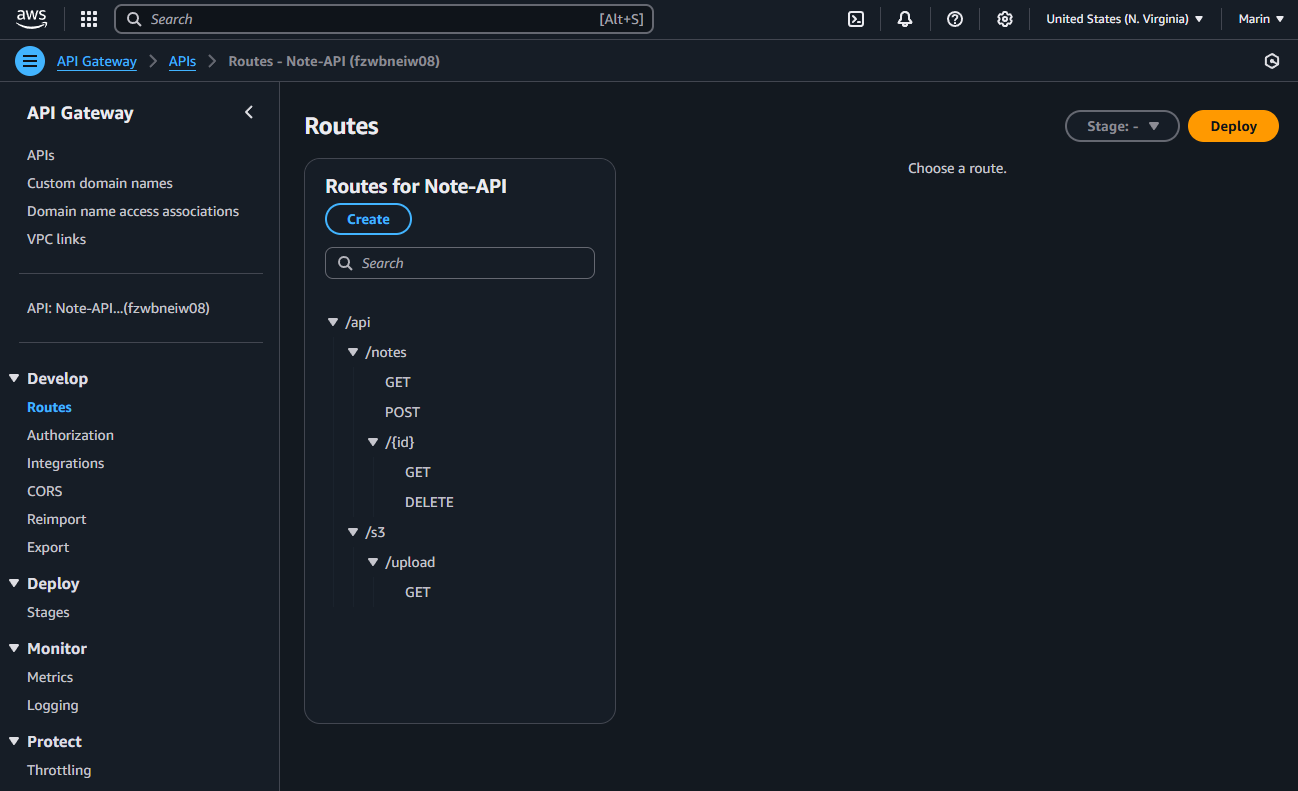
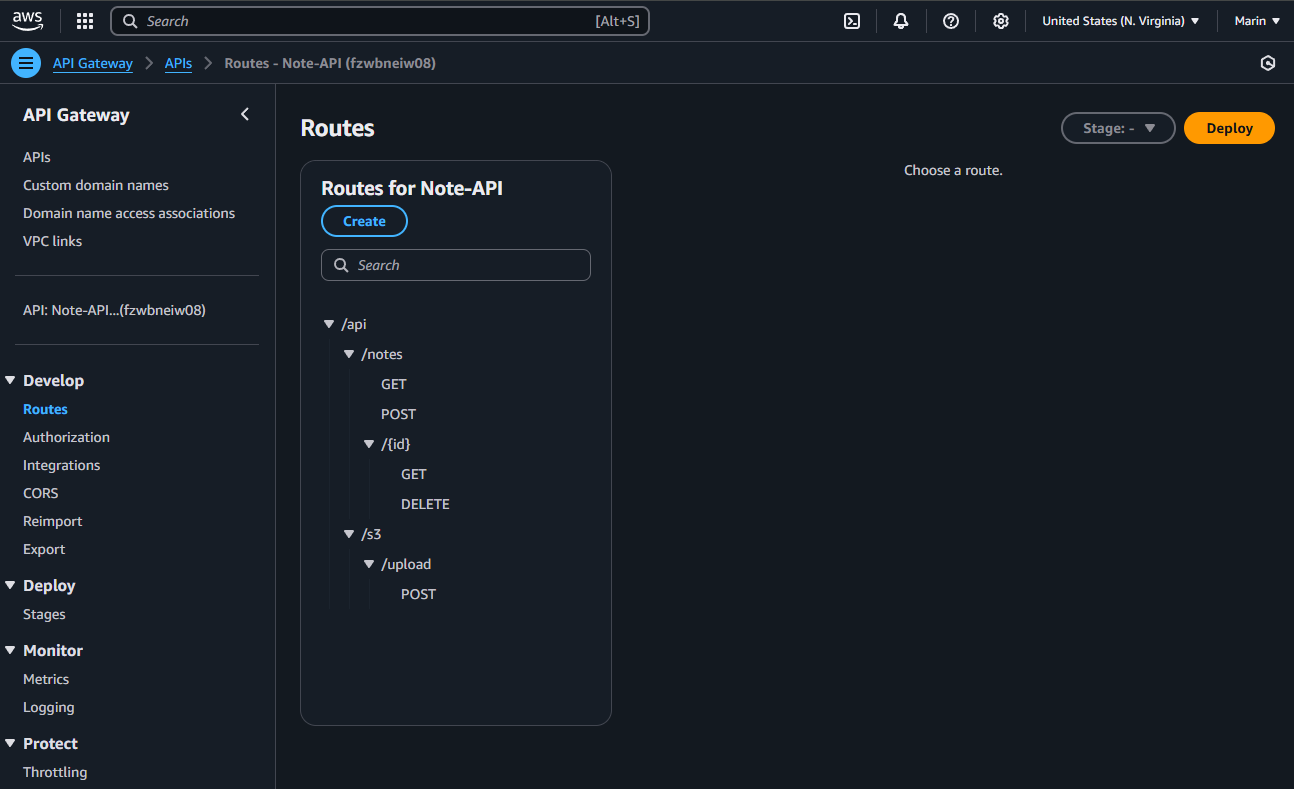
Doc Gatewa Fix

diff --git a/Frontend/src/api/notesApi.js b/Frontend/src/api/notesApi.js
@@ -3,25 +3,49 @@ import React from 'react';
 const API_BASE = 'https://fzwbneiw08.execute-api.us-east-1.amazonaws.com';
 
 export async function createNote({ title, content, file }) {
-    const formData = new FormData();
-    formData.append('title', title);
-    formData.append('content', content);
+    let fileUrl = null;
 
-    if (file) formData.append('file', file);
+    // Step 1: Upload file to S3 if present
+    if (file instanceof File && file.size > 0) {
+        // Request a pre-signed URL from your backend
+        const presignRes = await fetch(`${API_BASE}/api/upload-url`, {
+            method: 'POST',
+            body: JSON.stringify({
+                fileName: file.name,
+                fileType: file.type
+            }),
+            headers: { 'Content-Type': 'application/json' }
+        });
 
-    for (const [key, value] of formData.entries()) {
-        console.log(`${key}:`, value);
+        if (!presignRes.ok) throw new Error('Failed to get upload URL');
+            const { uploadUrl } = await presignRes.json();
+
+            // Upload the file directly to S3
+            const uploadRes = await fetch(uploadUrl, {
+                method: 'PUT',
+                body: file,
+                headers: { 'Content-Type': file.type }
+            });
+
+        if (!uploadRes.ok) throw new Error('Failed to upload file to S3');
+
+        // Strip query params to get the clean file URL
+        fileUrl = uploadUrl.split('?')[0];
     }
 
-
-    const res = await fetch(`${API_BASE}/api/notes`, {
+    // Step 2: Create the note with metadata and optional fileUrl
+    const noteRes = await fetch(`${API_BASE}/api/notes`, {
         method: 'POST',
-        body: formData
+        body: JSON.stringify({
+            title,
+            content,
+            fileUrl
+        }),
+        headers: { 'Content-Type': 'application/json' }
     });
-    
 
-    if (!res.ok) throw new Error('Failed to create note');
-        return await res.json();
+    if (!noteRes.ok) throw new Error('Failed to create note');
+    return await noteRes.json();
 }
 
 export async function getAllNotes() {
